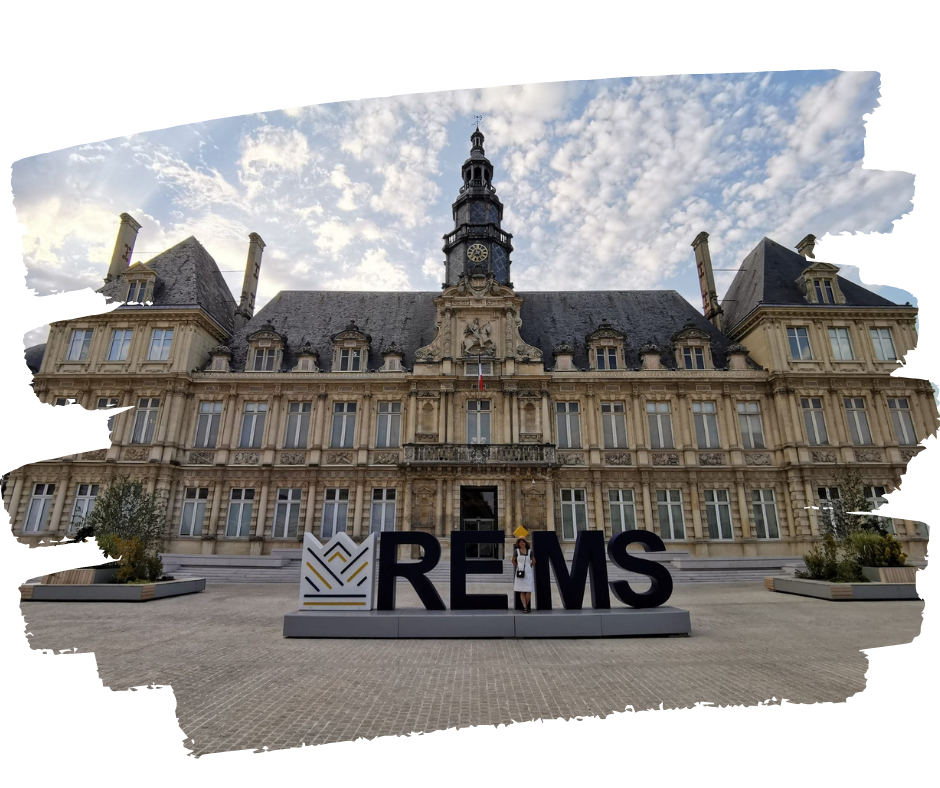
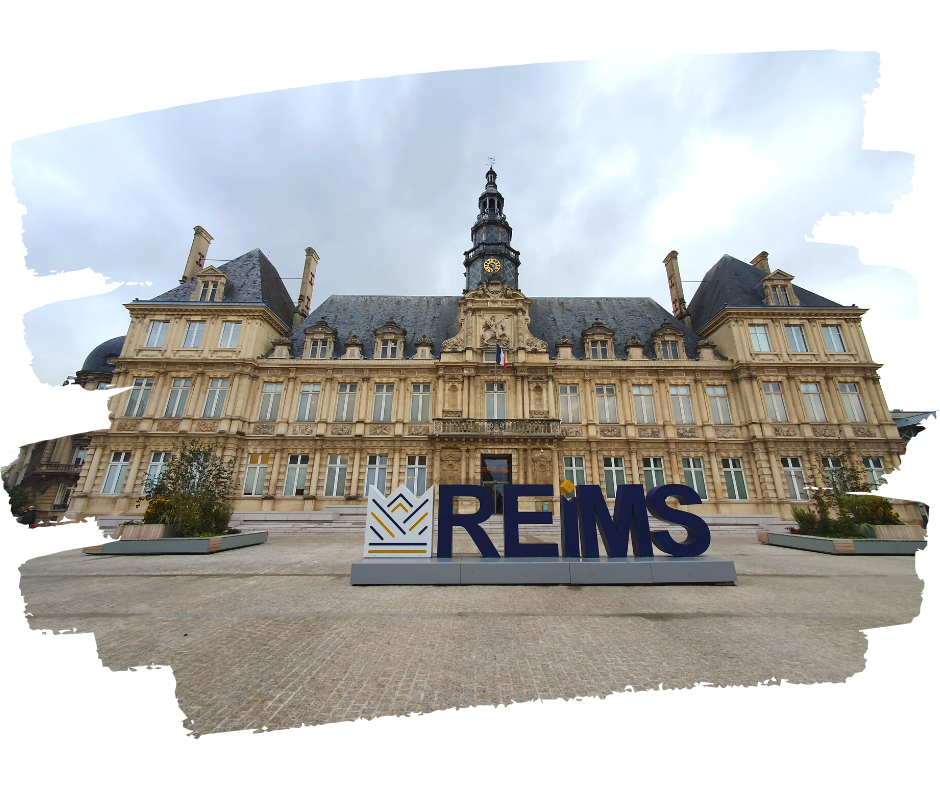
Ajout de Photo et footer modifié

diff --git a/index.html b/index.html
@@ -1,12 +1,15 @@
 <!DOCTYPE html>
 <html lang="en">
+
 <head>
     <meta charset="UTF-8">
     <meta name="viewport" content="width=device-width, initial-scale=1.0">
     <link rel="stylesheet" href="style.css">
-</head>
-<body>
     
+</head>
+
+<body>
+
 
     <!---------------------------------------------- Navbar ------------------------------>
     <nav class="navbar">
@@ -20,8 +23,8 @@
         </ul>
         <ul class="nav-link-right">
             <li><a href="#informer">S'informer</a></li>
-            <li><a href="#utiles">Lieux Utiles</a></li> 
-        </ul>
+            <li><a href="#utiles">Lieux Utiles</a></li>
+        </ul>    
     </nav>
 
     <div class="photo">
@@ -34,7 +37,7 @@
         <h1>Se restaurer</h1>
         <div class="container-card-manger">
             <!---------------------------------------------- Debut container rapide ------------------------------>
-            <h2>Restaurant rapide</h2>
+            <h2>Restauration rapide</h2>
             <div class="container-rapide">
                 <div class="card">
                     <img src="./picture/lefast.jpg" alt="Fast">
@@ -57,7 +60,7 @@
                     </form>
                 </div>
             </div>
-             <!---------------------------------------------- Debut container boulangerie ------------------------------>
+            <!---------------------------------------------- Debut container boulangerie ------------------------------>
             <h2>Boulangerie</h2>
             <div class="container-boulangerie">
                 <div class="card">
@@ -79,19 +82,19 @@
                     </form>
                 </div>
             </div>
-             <!---------------------------------------------- Debut container restaurant ------------------------------>
+            <!---------------------------------------------- Debut container restaurant ------------------------------>
             <h2>Restaurant</h2>
             <div class="container-restaurant">
                 <div class="card">
-                        <img src="./picture/tablier.jpg" alt="le tablier">
+                    <img src="./picture/tablier.jpg" alt="le tablier">
                     <form action="#tablier">
-                        <button type="submit">Le Tablier  <br> Plus d'infos</button>
+                        <button type="submit">Le Tablier <br> Plus d'infos</button>
                     </form>
                 </div>
                 <div class="card">
                     <img src="./picture/sacreburger.jpg" alt="sacre burger">
                     <form action="#sacre">
-                        <button type="submit">Sacre Burger  <br> Plus d'infos</button>
+                        <button type="submit">Sacre Burger <br> Plus d'infos</button>
                     </form>
                 </div>
                 <div class="card">
@@ -129,13 +132,13 @@
                     </form>
                 </div>
             </div>
-             <!---------------------------------------------- Fin container restaurant ------------------------------>
+            <!---------------------------------------------- Fin container restaurant ------------------------------>
         </div>
     </div>
 
-     <!---------------------------------------------- Fin container manger ------------------------------>
+    <!---------------------------------------------- Fin container manger ------------------------------>
 
-      <!---------------------------------------------- Debut container divertir ------------------------------>
+    <!---------------------------------------------- Debut container divertir ------------------------------>
 
     <div class="container-divertir" id="divertir">
         <h1>Se divertir</h1>
@@ -245,14 +248,14 @@
         </div>
     </div>
 
-     <!---------------------------------------------- Fin container divertir ------------------------------>
+    <!---------------------------------------------- Fin container divertir ------------------------------>
 
-      <!---------------------------------------------- Debut container informer ------------------------------>
+    <!---------------------------------------------- Debut container informer ------------------------------>
 
     <div class="container-informer" id="informer">
         <h1>S'informer</h1>
         <div class="container-card-informer">
-             <!---------------------------------------------- Debut container meetup ------------------------------>
+            <!---------------------------------------------- Debut container meetup ------------------------------>
             <h2>Meetup</h2>
             <div class="container-meetup">
                 <div class="card">
@@ -284,35 +287,29 @@
             <h2>Hackathon</h2>
             <div class="container-hackathon">
                 <div class="card">
-                    <img src="https://via.placeholder.com/150" alt="">
+                    <img src="./picture/hacktober.jpg" alt="">
                     <form action="#popup">
-                        <button type="submit">MCDO <br> Plus d'infos</button>
+                        <button type="submit">Hacktober Fest<br> Plus d'infos</button>
                     </form>
                 </div>
                 <div class="card">
-                    <img src="https://via.placeholder.com/150" alt="">
+                    <img src="./picture/evenbrite.jpg" alt="">
                     <form action="#popup">
-                        <button type="submit">MCDO <br> Plus d'infos</button>
-                    </form>
-                </div>
-                <div class="card">
-                    <img src="https://via.placeholder.com/150" alt="">
-                    <form action="#popup">
-                        <button type="submit">MCDO <br>Plus d'infos</button>
+                        <button type="submit">Evenbrite <br>Plus d'infos</button>
                     </form>
                 </div>
             </div>
         </div>
     </div>
 
-     <!---------------------------------------------- Debut container informer ------------------------------>
+    <!---------------------------------------------- Debut container informer ------------------------------>
 
-      <!---------------------------------------------- Debut container utiles ------------------------------>
+    <!---------------------------------------------- Debut container utiles ------------------------------>
 
     <div class="container-utiles" id="utiles">
         <h1>Lieux utiles</h1>
         <div class="container-card-utiles">
-             <!---------------------------------------------- Debut container informer ------------------------------>
+            <!---------------------------------------------- Debut container informer ------------------------------>
             <h2>Parking Gratuit</h2>
             <div class="container-parking">
                 <div class="card">
@@ -338,6 +335,16 @@
                     </form>
                 </div>
             </div>
+              <!--------------------------------------------------------Debut container Petite Halle----------------------------->
+            <h2>Petite-Halle</h2>
+            <div class="container-petite-halle">
+                <div class="card">
+                    <img src="./picture/petite-halle.jpg" alt="">
+                    <form action="#pharmacie">
+                        <button type="submit">Petite-Halle <br> Plus d'infos</button>
+                    </form>
+                </div>
+            </div>
         </div>
     </div>
 
@@ -349,9 +356,9 @@
             <a class="popup-close" href="#manger">X</a>
             <div class="popup-text">
                 <h1>Le Fast</h1>
-                <p> 
+                <p>
                     Adresse : 49 Rue De Courcelles, 51100, Reims </br>
-                    Numéro :  03 26 02 02 94 </br>
+                    Numéro : 03 26 02 02 94 </br>
                     Site Web : https://www.facebook.com/RestaurantLeFast/ </br>
                 </p>
             </div>
@@ -437,7 +444,7 @@
                     Adresse: </br>
                     Numéro : </br>
                     Site Web :
-                    
+
                 </p>
             </div>
         </div>
@@ -479,7 +486,7 @@
                 <p>
                     Adresse: 79 Place Drouet d'Erlon </br>
                     Numéro : 03 26 35 64 32</br>
-                   
+
                 </p>
             </div>
         </div>
@@ -759,7 +766,7 @@
                 <p>
                     Adresse: </br>
                     Numéro : </br>
-                    Site Web :
+                    Site Web :https://www.eventbrite.fr/d/online/hackathon/
                 </p>
             </div>
         </div>
@@ -825,20 +832,17 @@
     <!---------------------------------------------- Fin container Popup ------------------------------>
 
 
-    <footer>
-        <div class="description">
-            <h3>Site par : </h3>
-            <a href="https://www.linkedin.com/in/olivier-preaux-b492b31b8/">Olivier</a>
-            <a href="https://www.linkedin.com/in/adrien-thouvenin-a42b101a2/">Adrien</a>
-            <a href="https://www.linkedin.com/in/enzogaudry/">Enzo</a>
-        </div>
-        <div class="logowild">
-            <a href="https://www.wildcodeschool.com/fr-FR"><img src="./picture/logo.png" alt=""></a>
-        </div>
+    <footer class="description">
+        <h3 class="site">Site par : </h3>
+        <a href="https://www.linkedin.com/in/olivier-preaux-b492b31b8/">Olivier</a>
+        <a href="https://www.linkedin.com/in/adrien-thouvenin/">Adrien</a>
+        <a href="https://www.linkedin.com/in/enzogaudry/">Enzo</a>
+        <a href="https://www.wildcodeschool.com/fr-FR"><img src="./picture/logo.png" alt=""></a>
     </footer>
 
 
     <a href="#top" class="back-to-top">Top</a>
 
 </body>
+
 </html>

diff --git a/style.css b/style.css
@@ -104,7 +104,7 @@ h1, h2{
 /**************************************** Debut Card ***********************************/
 
 
-.container-rapide, .container-boulangerie, .container-restaurant, .container-bar, .container-cinema, .container-salledesport, .container-meetup, .container-hackathon, .container-pharmacie, .container-parking{
+.container-rapide, .container-boulangerie, .container-restaurant, .container-bar, .container-cinema, .container-salledesport, .container-meetup, .container-hackathon, .container-pharmacie, .container-parking, .container-petite-halle{
     display: flex;
     justify-content: space-around;
     margin-top:20px;
@@ -234,6 +234,15 @@ footer{
 .description a{
     text-decoration: none;
     color: white;
+    display:inline;
+    font-weight:bolder;
+    
+    
+}
+.site {
+    color: white;
+    
+
 }
 
 /************************************ Fin footer ***************************/
